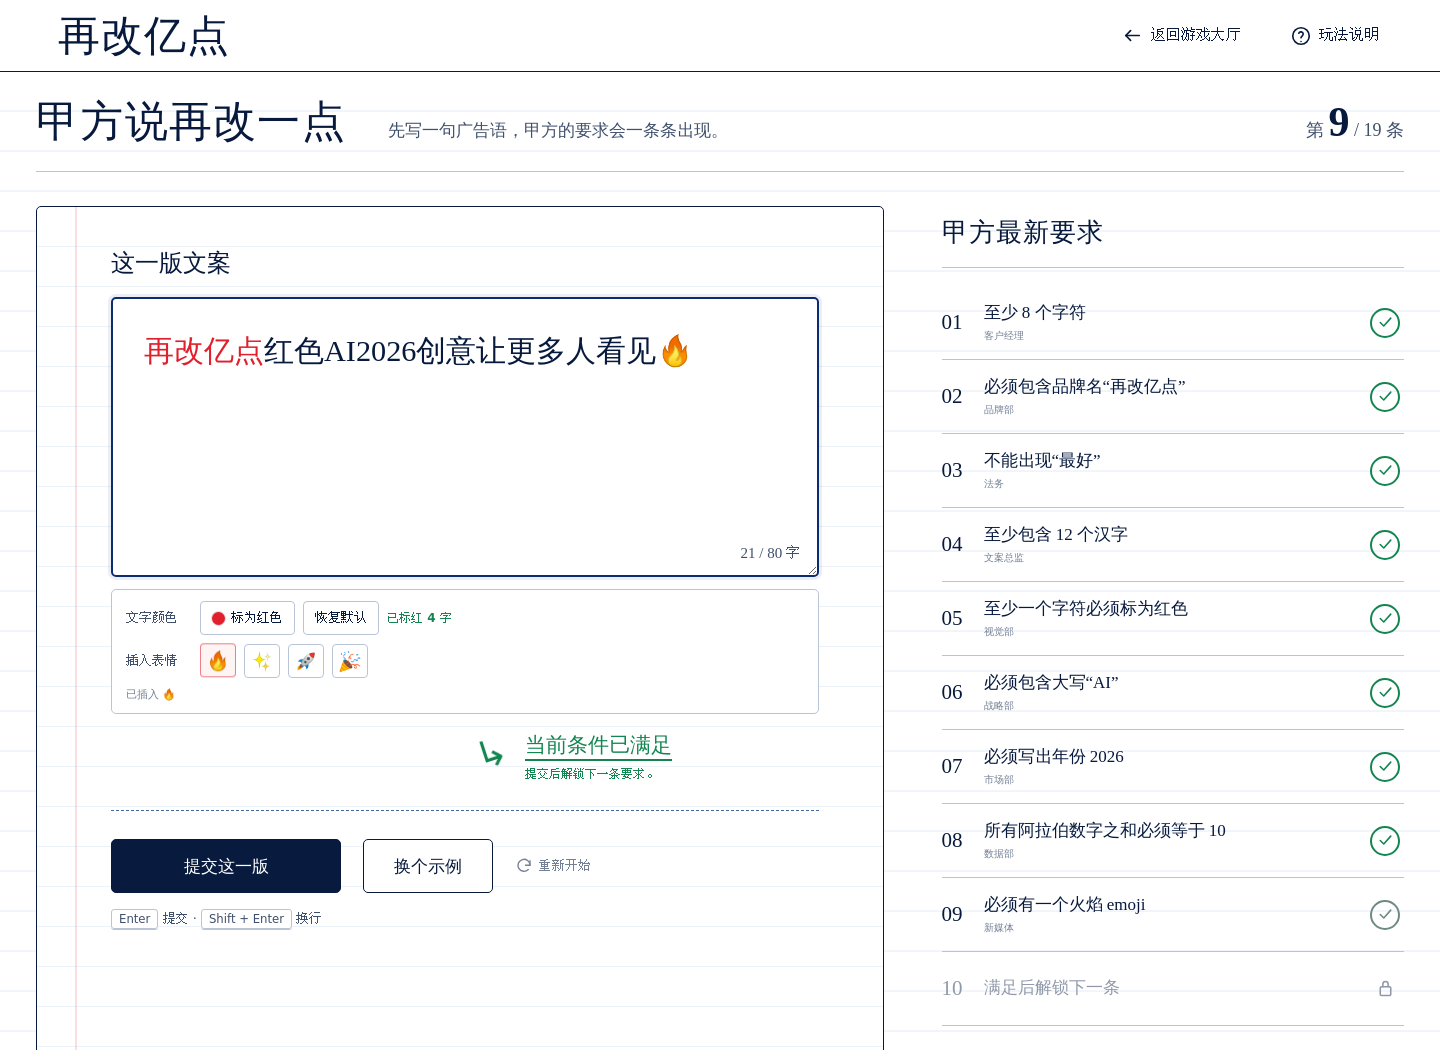
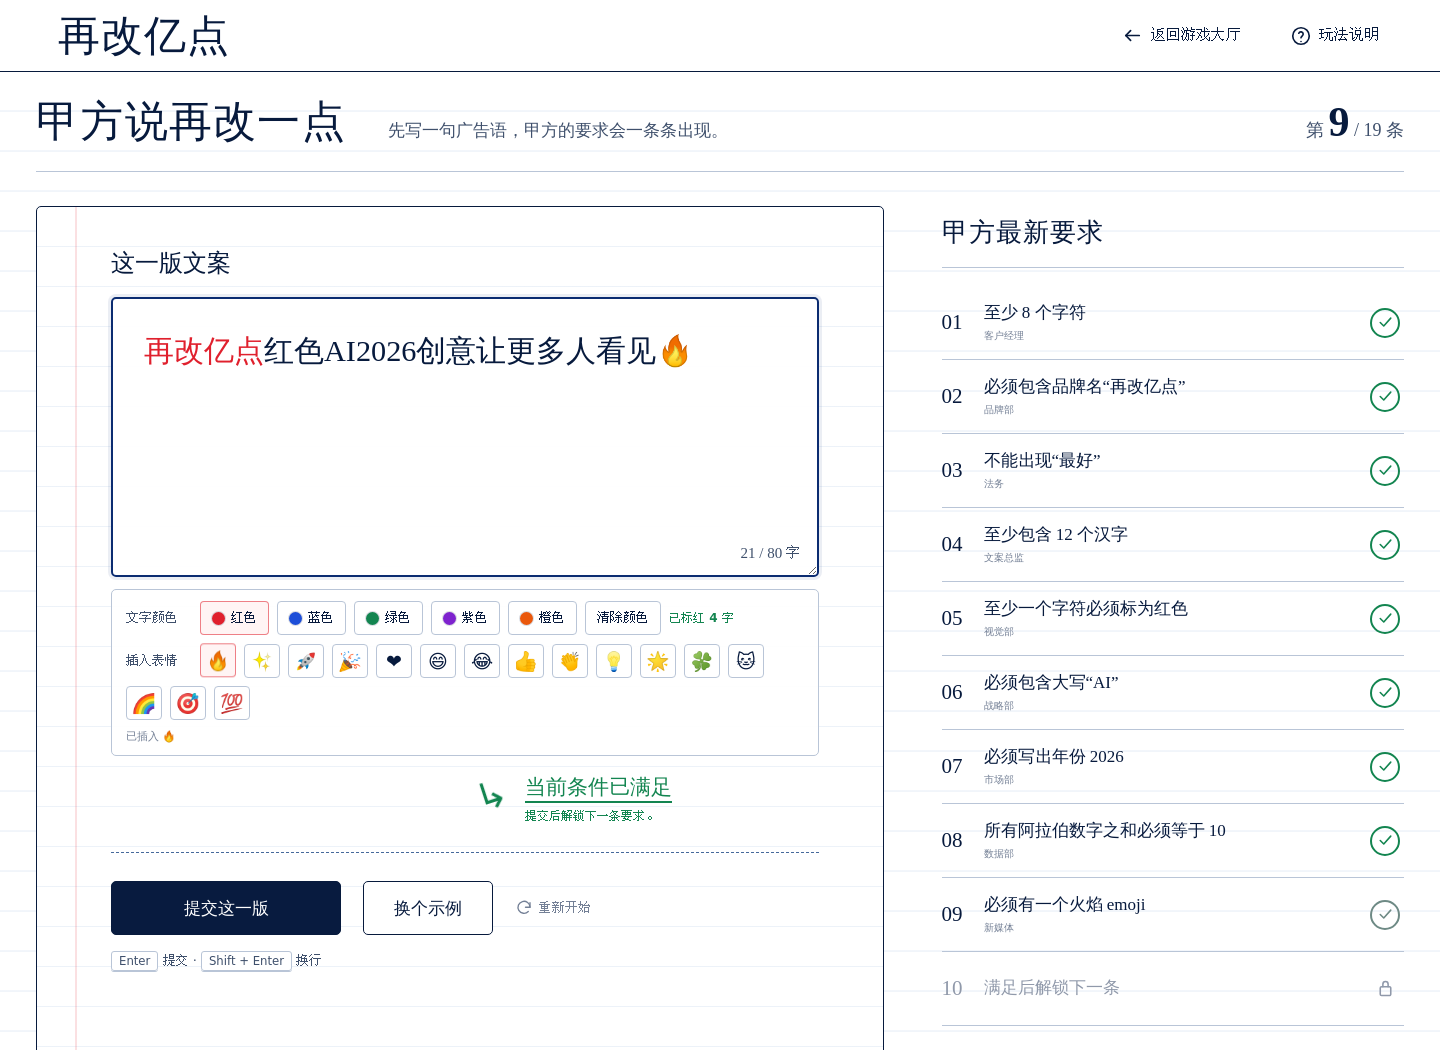
Expand editor colors and emoji palette

diff --git a/src/components/GameScreen.jsx b/src/components/GameScreen.jsx
@@ -7,7 +7,14 @@ import { SuccessDialog } from "./SuccessDialog";
 const RED_TEXT_COLOR = "#e0202d";
 const DEFAULT_TEXT_COLOR = "#071a3d";
 const EMPTY_FORMAT_STATE = Object.freeze({ redCharacterCount: 0 });
-const CLIENT_EMOJIS = ["🔥", "✨", "🚀", "🎉"];
+const CLIENT_TEXT_COLORS = [
+  { label: "红色", value: RED_TEXT_COLOR },
+  { label: "蓝色", value: "#1d4ed8" },
+  { label: "绿色", value: "#138550" },
+  { label: "紫色", value: "#7e22ce" },
+  { label: "橙色", value: "#ea580c" },
+];
+const CLIENT_EMOJIS = ["🔥", "✨", "🚀", "🎉", "❤️", "😄", "😂", "👍", "👏", "💡", "🌟", "🍀", "🐱", "🌈", "🎯", "💯"];
 
 const readEditorText = (editor) => editor.innerText.replace(/\r/gu, "");
 
@@ -116,7 +123,7 @@ export function GameScreen({ game, onHome, onComplete }) {
     rememberSelection();
   };
 
-  const applyTextColor = (color) => {
+  const applyTextColor = (color, label) => {
     const editor = inputRef.current;
     const range = restoreSelection();
     if (!editor || !range || range.collapsed || !range.toString().trim()) {
@@ -132,7 +139,7 @@ export function GameScreen({ game, onHome, onComplete }) {
     if (selection?.rangeCount) savedRangeRef.current = selection.getRangeAt(0).cloneRange();
 
     syncRichEditor();
-    setToolNotice(color === RED_TEXT_COLOR ? "已把选中文字标为红色。" : "已恢复为默认文字颜色。");
+    setToolNotice(label ? `已把选中文字标为${label}。` : "已清除选中文字的颜色。");
   };
 
   const insertTextAtCaret = (text) => {
@@ -298,11 +305,26 @@ export function GameScreen({ game, onHome, onComplete }) {
               {colorToolUnlocked && (
                 <div className="editor-tool-group">
                   <span className="editor-tool-label">文字颜色</span>
-                  <button type="button" onMouseDown={(event) => event.preventDefault()} onClick={() => applyTextColor(RED_TEXT_COLOR)}>
-                    <span className="red-swatch" aria-hidden="true" /> 标为红色
-                  </button>
-                  <button type="button" onMouseDown={(event) => event.preventDefault()} onClick={() => applyTextColor(DEFAULT_TEXT_COLOR)}>
-                    恢复默认
+                  {CLIENT_TEXT_COLORS.map((color) => (
+                    <button
+                      type="button"
+                      className={color.value === RED_TEXT_COLOR ? "required-color" : ""}
+                      key={color.value}
+                      aria-label={`标为${color.label}`}
+                      title={color.value === RED_TEXT_COLOR ? "标为红色（当前规则需要）" : `标为${color.label}`}
+                      onMouseDown={(event) => event.preventDefault()}
+                      onClick={() => applyTextColor(color.value, color.label)}
+                    >
+                      <span className="color-swatch" style={{ backgroundColor: color.value }} aria-hidden="true" /> {color.label}
+                    </button>
+                  ))}
+                  <button
+                    type="button"
+                    aria-label="清除所选文字颜色"
+                    onMouseDown={(event) => event.preventDefault()}
+                    onClick={() => applyTextColor(DEFAULT_TEXT_COLOR, "")}
+                  >
+                    清除颜色
                   </button>
                   {formatState.redCharacterCount > 0 && <span className="format-count">已标红 {formatState.redCharacterCount} 字</span>}
                 </div>

diff --git a/src/styles.css b/src/styles.css
@@ -513,12 +513,16 @@ textarea:focus-visible,
   transform: translateY(-1px);
 }
 
-.red-swatch {
+.color-swatch {
   width: 13px;
   height: 13px;
   border-radius: 50%;
-  background: var(--red);
   box-shadow: 0 0 0 1px rgba(7, 26, 61, 0.15);
+}
+
+.editor-tool-group button.required-color {
+  border-color: rgba(224, 32, 45, 0.55);
+  background: var(--red-soft);
 }
 
 .format-count {

diff --git a/README.md b/README.md
@@ -42,6 +42,7 @@
 - **三种中文语境**：改稿、请假和家庭群昵称，各有一套专属规则。
 - **本地语序检查**：广告语与请假条会检查表达顺序、连接关系和异常重复。
 - **即时规则反馈**：清楚显示已通过、未通过和当前正在挑战的要求。
+- **富文本编辑工具**：规则解锁后可为选中文字设置多种颜色，并从常用表情面板快速插入 emoji。
 - **键盘快捷提交**：输入时按 `Enter` 即可检查，`Shift + Enter` 用于换行。
 - **响应式界面**：支持桌面端、平板和手机浏览器。
 - **本地进度保存**：通关记录保存在当前浏览器中。